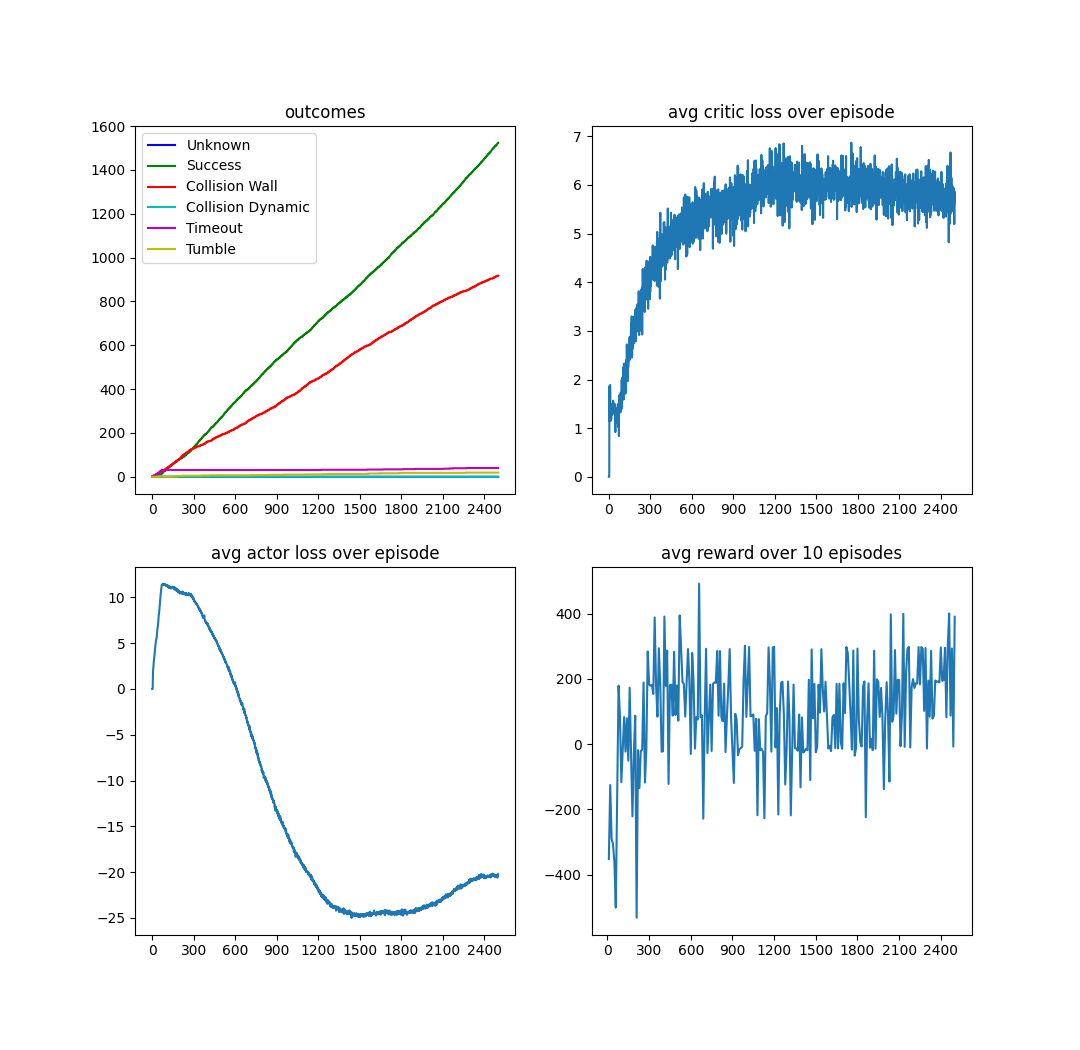
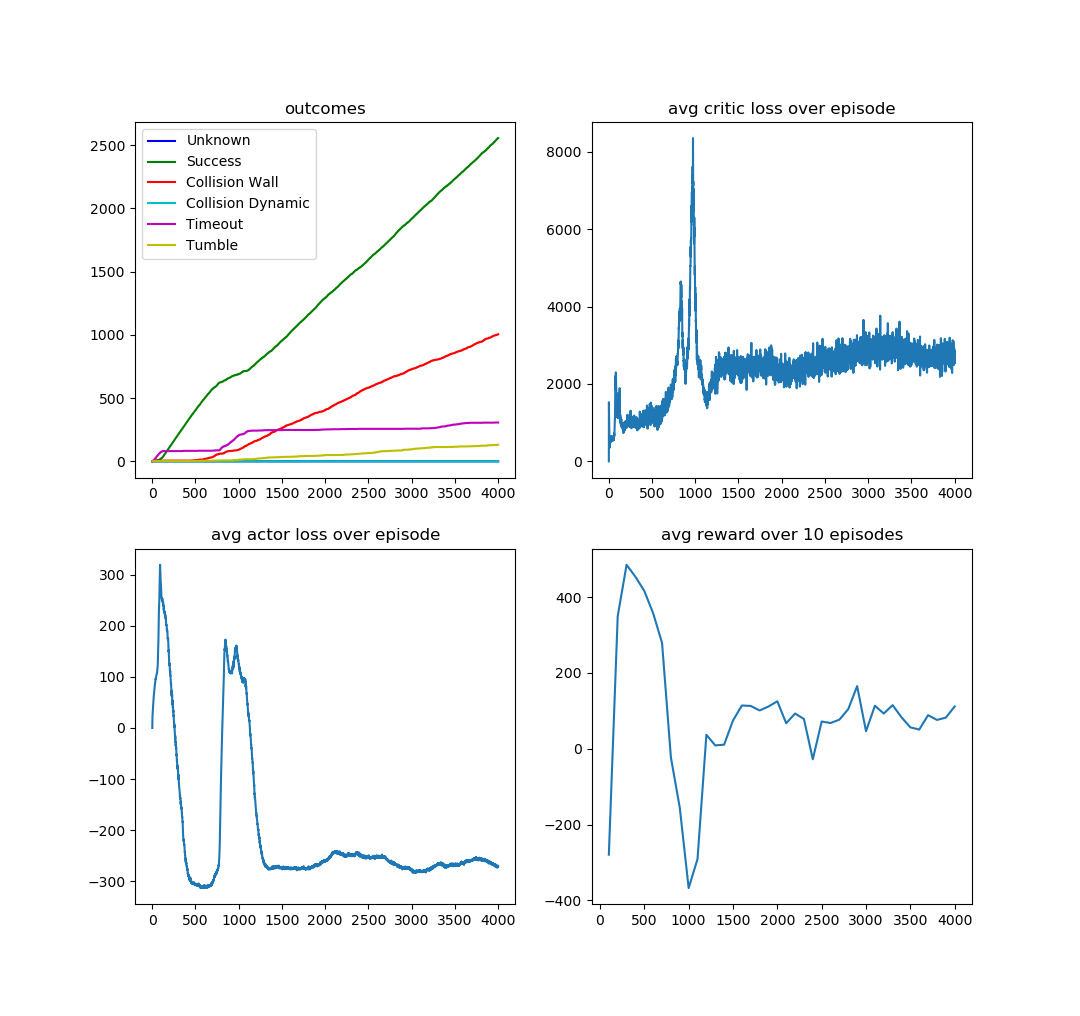
增加奖励和速度log,测试旧模型比较麻烦,因为训练算法变了,最好重新训练新模型进行策略

diff --git a/src/turtlebot3_drl/turtlebot3_drl/common/logger.py b/src/turtlebot3_drl/turtlebot3_drl/common/logger.py
@@ -24,13 +24,15 @@ class Logger():
         self.best_episode_success = 0
 
         datetime = time.strftime("%Y%m%d-%H%M%S")
+        self.session_dir = session_dir
+        self.load_episode = load_episode
         self.file_comparison = self.init_comparison_file(datetime, machine_dir, stage, hyperparameters, algorithm, session, load_episode)
         if self.is_training:
             self.file_log = self.init_training_log(datetime, session_dir, stage, model_config)
         else:
             self.file_log = self.init_testing_log(datetime, session_dir, stage, load_episode)
 
-    def update_test_results(self, step, outcome, distance_traveled, episode_duration, swerving_sum):
+    def update_test_results(self, step, outcome, distance_traveled, episode_duration, swerving_sum, reward_sum, action_list):
         self.test_entry += 1
         self.test_outcome[outcome] += 1
         if outcome == SUCCESS:
@@ -39,7 +41,7 @@ class Logger():
             self.test_swerving.append(swerving_sum/step)
         success_count = self.test_outcome[SUCCESS]
 
-        self.file_log.write(f"{self.test_entry}, {outcome}, {step}, {episode_duration}, {distance_traveled}, {self.test_outcome[SUCCESS]}/{self.test_outcome[COLLISION_WALL]}/{self.test_outcome[COLLISION_OBSTACLE]}/{self.test_outcome[TIMEOUT]}/{self.test_outcome[TUMBLE]}\n")
+        self.file_log.write(f"{self.test_entry}, {outcome}, {step}, {reward_sum}, {episode_duration}, {distance_traveled}, {self.test_outcome[SUCCESS]}/{self.test_outcome[COLLISION_WALL]}/{self.test_outcome[COLLISION_OBSTACLE]}/{self.test_outcome[TIMEOUT]}/{self.test_outcome[TUMBLE]}\n")
         if self.test_entry > 0 and self.test_entry % 40 == 0:
             self.update_comparison_file(self.test_entry, self.test_outcome[SUCCESS] / (self.test_entry / 100), 0)
             self.file_log.write(f"Successes: {self.test_outcome[SUCCESS]} ({self.test_outcome[SUCCESS]/self.test_entry:.2%}), "
@@ -61,6 +63,12 @@ class Logger():
                 print(f"distance: {sum(self.test_distance)/success_count:.3f}, "
                       f"swerving: {sum(self.test_swerving)/success_count:.3f}, "
                       f"duration: {sum(self.test_duration)/success_count:.3f}")
+        # log speed
+        datetime = time.strftime("%Y%m%d-%H%M%S")
+        speed_log = self.init_speed_log(datetime, self.session_dir, self.stage, self.load_episode)
+        length = len(action_list)
+        for i in range(length):
+            speed_log.write(f"{i+1}, {action_list[i][0]}, {action_list[i][1]}, {action_list[i][2]}\n")
 
 
     def init_training_log(self, datetime, path, stage, model_config):
@@ -72,9 +80,14 @@ class Logger():
 
     def init_testing_log(self, datetime, path, stage, load_episode):
         file_log = open(os.path.join(path, "_test_stage" + stage + "_eps" + str(load_episode) + "_" + datetime + '.txt'), 'w+')
-        file_log.write(f"episode, outcome, step, episode_duration, distance, success/cw/co/timeout/tumble\n")
+        file_log.write(f"episode, outcome, step, reward_sum, episode_duration, distance, success/cw/co/timeout/tumble\n")
         return file_log
 
+    def init_speed_log(self, datetime, path, stage, load_episode):
+        file_log = open(os.path.join(path, "_test_stage" + stage + "_eps" + str(load_episode) + "_speed_" + datetime + '.txt'), 'w+')
+        file_log.write(f"step, speed_x, speed_y, speed_yaw\n")
+        return file_log
+    
     def init_comparison_file(self, datetime, path, stage, hyperparameters, algorithm, session, episode):
         prefix = "_training" if self.is_training else "_testing"
         with open(os.path.join(path, "__" + algorithm + prefix + "_comparison.txt"), 'a+') as file_comparison:

diff --git a/src/turtlebot3_drl/turtlebot3_drl/drl_gazebo/drl_gazebo.py b/src/turtlebot3_drl/turtlebot3_drl/drl_gazebo/drl_gazebo.py
@@ -37,7 +37,7 @@ from rclpy.node import Node
 from turtlebot3_msgs.srv import RingGoal
 import xml.etree.ElementTree as ET
 from ..drl_environment.drl_environment import ARENA_LENGTH, ARENA_WIDTH, ENABLE_DYNAMIC_GOALS
-from ..common.settings import ENABLE_TRUE_RANDOM_GOALS, SEED, FINTUNE_TIMES
+from ..common.settings import ENABLE_TRUE_RANDOM_GOALS, SEED
 
 NO_GOAL_SPAWN_MARGIN = 0.3 # meters away from any wall
 class DRLGazebo(Node):
@@ -78,8 +78,10 @@ class DRLGazebo(Node):
         print(f"running on stage: {self.stage}, dynamic goals enabled: {ENABLE_DYNAMIC_GOALS}")
 
         self.prev_x, self.prev_y = -1, -1
-        self.goal_x, self.goal_y = 2.0, 0.0
-        self.reset_env_times = FINTUNE_TIMES
+        self.goal_x, self.goal_y = 5.0, 0.0
+        self.obs_x, self.obs_y, self.obs_yaw = 2.5, 0.0, 0.0
+        self.timer_sw = 0
+        self.reset_env_times = 0
         self.warm_times = 300
         self.learning_times = 200
         self.test_times = 10
@@ -170,8 +172,7 @@ class DRLGazebo(Node):
         # 这里判定是否合理的逻辑是：不在中心1/4区域内就不合理
         # if goal_x > ARENA_LENGTH/2 or goal_x < -ARENA_LENGTH/2 or goal_y > ARENA_WIDTH/2 or goal_y < -ARENA_WIDTH/2:
         #     return False
-        if 2.0 < goal_x < 4.0 or 2.0 < goal_y < 4.0:
-            return False
+        
         # 和障碍物重叠就不合理
         for obstacle in self.obstacle_coordinates:
             if goal_x < obstacle[0][0] and goal_x > obstacle[2][0]:
@@ -227,8 +228,17 @@ class DRLGazebo(Node):
         if self.train:
             self.goal_x , self.goal_y = self.random_goals()
         else:
-            self.goal_x = random.randrange(-55, 55) / 10.0
-            self.goal_y = random.randrange(-55, 55) / 10.0
+            goal_pose_list = [[5.0, 0.0], [0.0, -5.0], [-5.0, 0.0], [0.0, 5.0]]
+            obs_pose_list = [[2.5, 0.0, 0.0], [0.0, -2.5, 1.57], [-2.5, 0.0, 3.14], [0.0, 2.5, -1.57]]
+            # obs_yaw_list = [0.0, 1.57, 3.14, -1.57]
+            index = random.randrange(0, len(goal_pose_list))
+            self.goal_x = float(goal_pose_list[int((self.reset_env_times+1)%(self.test_times*4)/self.test_times%4)][0])
+            self.goal_y = float(goal_pose_list[int((self.reset_env_times+1)%(self.test_times*4)/self.test_times%4)][1])
+            self.obs_x = float(obs_pose_list[int((self.reset_env_times+1)%(self.test_times*4)/self.test_times%4)][0])
+            self.obs_y = float(obs_pose_list[int((self.reset_env_times+1)%(self.test_times*4)/self.test_times%4)][1])
+            self.obs_yaw = float(obs_pose_list[int((self.reset_env_times+1)%(self.test_times*4)/self.test_times%4)][2])
+            # self.goal_x = random.randrange(-60, 60) / 10.0
+            # self.goal_y = random.randrange(-60, 60) / 10.0
         while not self.goal_is_valid(self.goal_x, self.goal_y):
             self.goal_x , self.goal_y = self.random_goals()
             tries += 1

diff --git a/src/turtlebot3_drl/turtlebot3_drl/drl_agent/drl_agent.py b/src/turtlebot3_drl/turtlebot3_drl/drl_agent/drl_agent.py
@@ -131,6 +131,7 @@ class DrlAgent(Node):
             # TODO: 修改动作
             action_past = [0.0, 0.0, 0.0]
             state = util.init_episode(self)
+            action_list = []
 
             if ENABLE_STACKING:
                 frame_buffer = [0.0] * (self.model.state_size * self.model.stack_depth * self.model.frame_skip)
@@ -173,6 +174,9 @@ class DrlAgent(Node):
                 next_state, reward, episode_done, outcome, distance_traveled = util.step(self, action_current, action_past)
                 action_past = copy.deepcopy(action_current)
                 reward_sum += reward
+                action_log = copy.deepcopy(action_current)
+                action_log[0] = action_log[0] * SPEED_LINEAR_MAX
+                action_list.append(action_log)
 
                 if ENABLE_STACKING:
                     frame_buffer = frame_buffer[self.model.state_size:] + list(next_state)      # Update big buffer with single step
@@ -204,10 +208,10 @@ class DrlAgent(Node):
             self.total_steps += step
             duration = time.perf_counter() - episode_start
 
-            self.finish_episode(step, duration, outcome, distance_traveled, reward_sum, loss_critic, loss_actor)
+            self.finish_episode(step, duration, outcome, distance_traveled, reward_sum, loss_critic, loss_actor, action_list)
             episode += 1
 
-    def finish_episode(self, step, eps_duration, outcome, dist_traveled, reward_sum, loss_critic, lost_actor):
+    def finish_episode(self, step, eps_duration, outcome, dist_traveled, reward_sum, loss_critic, lost_actor, action_list):
             if self.total_steps < self.observe_steps:
                 print(f"Observe phase: {self.total_steps}/{self.observe_steps} steps")
                 return
@@ -217,7 +221,7 @@ class DrlAgent(Node):
             print(f"steps: {step:<6}steps_total: {self.total_steps:<7}time: {eps_duration:<6.2f}dist_traveled: {dist_traveled:<6.2f}")
 
             if (not self.training):
-                self.logger.update_test_results(step, outcome, dist_traveled, eps_duration, 0)
+                self.logger.update_test_results(step, outcome, dist_traveled, eps_duration, 0, reward_sum, action_list)
                 return
 
             self.graph.update_data(step, self.total_steps, outcome, reward_sum, loss_critic, lost_actor)

diff --git a/src/turtlebot3_drl/turtlebot3_drl/common/settings.py b/src/turtlebot3_drl/turtlebot3_drl/common/settings.py
@@ -9,11 +9,11 @@ ENABLE_TRUE_RANDOM_GOALS = True    # If false, goals are selected semi-randomly 
 ENABLE_DYNAMIC_GOALS     = False    # If true, goal difficulty (distance) is adapted according to current success rate
 HUMAN_PLAY               = False    # If true, the agent is disabled and the robot can be controlled manually via keyboard 
 MODEL_STORE_INTERVAL     = 100      # Store the model weights every N episodes
-GRAPH_DRAW_INTERVAL      = 100       # Draw the graph every N episodes (drawing too often will slow down training)
+GRAPH_DRAW_INTERVAL      = 1000       # Draw the graph every N episodes (drawing too often will slow down training)
 GRAPH_AVERAGE_REWARD     = 100       # Average the reward graph over every N episodes
 FINTUNE_TIMES            = 0
 # PROJECT_PATH             = "/home/pdf/workspace/RL/turtlebot3_drlnav/src/turtlebot3_drl/turtlebot3_drl"
-PROJECT_PATH             = "/home/dayday/project/turtlebot3_drlnav/src/turtlebot3_drl/turtlebot3_drl"
+PROJECT_PATH             = "/root/project/turtlebot3_drlnav/src/turtlebot3_drl/turtlebot3_drl"
 
 # ===================================================================== #
 #                         ENVIRONMENT SETTINGS                          #
@@ -69,7 +69,7 @@ DIRECTION_SIZE  = 5
 HIDDEN_SIZE     = 512       # Number of neurons in hidden layers
 SEED            = 42
 
-BATCH_SIZE      = 512       # Number of samples per training batch
+BATCH_SIZE      = 1024       # Number of samples per training batch
 BUFFER_SIZE     = 1000000   # Number of samples stored in replay buffer before FIFO
 NEARLY_DATA     = 50
 DISCOUNT_FACTOR = 0.99

diff --git a/src/turtlebot3_drl/turtlebot3_drl/common/storagemanager.py b/src/turtlebot3_drl/turtlebot3_drl/common/storagemanager.py
@@ -24,15 +24,16 @@ class StorageManager:
         self.map_location = device
 
         # save files
-        ddpg = PROJECT_PATH + "/drl_agent/ddpg.py"
-        agent = PROJECT_PATH + "/drl_agent/drl_agent.py"
-        env = PROJECT_PATH + "/drl_environment/drl_environment.py"
-        gazebo = PROJECT_PATH + "/drl_gazebo/drl_gazebo.py"
-        setting = PROJECT_PATH + "/common/settings.py"
-        reward = PROJECT_PATH + "/drl_environment/reward.py"
-        files = [ddpg, agent, env, gazebo, setting, reward]
-        for file in files:
-            shutil.copy(file, self.session_dir + "/" + file.split('/')[-1])
+        if not load_session:
+            ddpg = PROJECT_PATH + "/drl_agent/ddpg.py"
+            agent = PROJECT_PATH + "/drl_agent/drl_agent.py"
+            env = PROJECT_PATH + "/drl_environment/drl_environment.py"
+            gazebo = PROJECT_PATH + "/drl_gazebo/drl_gazebo.py"
+            setting = PROJECT_PATH + "/common/settings.py"
+            reward = PROJECT_PATH + "/drl_environment/reward.py"
+            files = [ddpg, agent, env, gazebo, setting, reward]
+            for file in files:
+                shutil.copy(file, self.session_dir + "/" + file.split('/')[-1])
 
     def new_session_dir(self, stage):
         i = 0

diff --git a/src/turtlebot3_drl/turtlebot3_drl/drl_environment/drl_environment.py b/src/turtlebot3_drl/turtlebot3_drl/drl_environment/drl_environment.py
@@ -38,13 +38,14 @@ from . import reward as rw
 from ..common import utilities as util
 from ..common.settings import ENABLE_BACKWARD, EPISODE_TIMEOUT_SECONDS, ENABLE_MOTOR_NOISE, UNKNOWN, SUCCESS, COLLISION_WALL, COLLISION_OBSTACLE, TIMEOUT, TUMBLE, \
                                 TOPIC_SCAN, TOPIC_VELO, TOPIC_ODOM, ARENA_LENGTH, ARENA_WIDTH, MAX_NUMBER_OBSTACLES, OBSTACLE_RADIUS, LIDAR_DISTANCE_CAP, \
-                                    SPEED_LINEAR_MAX, SPEED_ANGULAR_MAX, THRESHOLD_COLLISION, THREHSOLD_GOAL, ENABLE_DYNAMIC_GOALS, SEED
+                                    SPEED_LINEAR_MAX, SPEED_ANGULAR_MAX, THRESHOLD_COLLISION, THREHSOLD_GOAL, ENABLE_DYNAMIC_GOALS
 
 NUM_SCAN_SAMPLES = util.get_scan_count()
 LINEAR_X = 0
 LINEAR_Y = 1
 ANGULAR = 2
 MAX_GOAL_DISTANCE = math.sqrt(ARENA_LENGTH**2 + ARENA_WIDTH**2)
+SEED=42
 class DRLEnvironment(Node):
     def __init__(self):
         super().__init__('drl_environment')

diff --git a/src/turtlebot3_drl/turtlebot3_drl/drl_environment/reward.py b/src/turtlebot3_drl/turtlebot3_drl/drl_environment/reward.py
@@ -98,7 +98,7 @@ def get_reward_C(succeed, action_linear_x, action_linear_y, action_angular, goal
             reward += 500
         elif succeed == COLLISION_OBSTACLE or succeed == COLLISION_WALL or succeed == TUMBLE:
             reward -= 500
-        elif succeed == TIMEOUT :
+        elif succeed == TIMEOUT:
              reward -= 300
         return float(reward)
 
